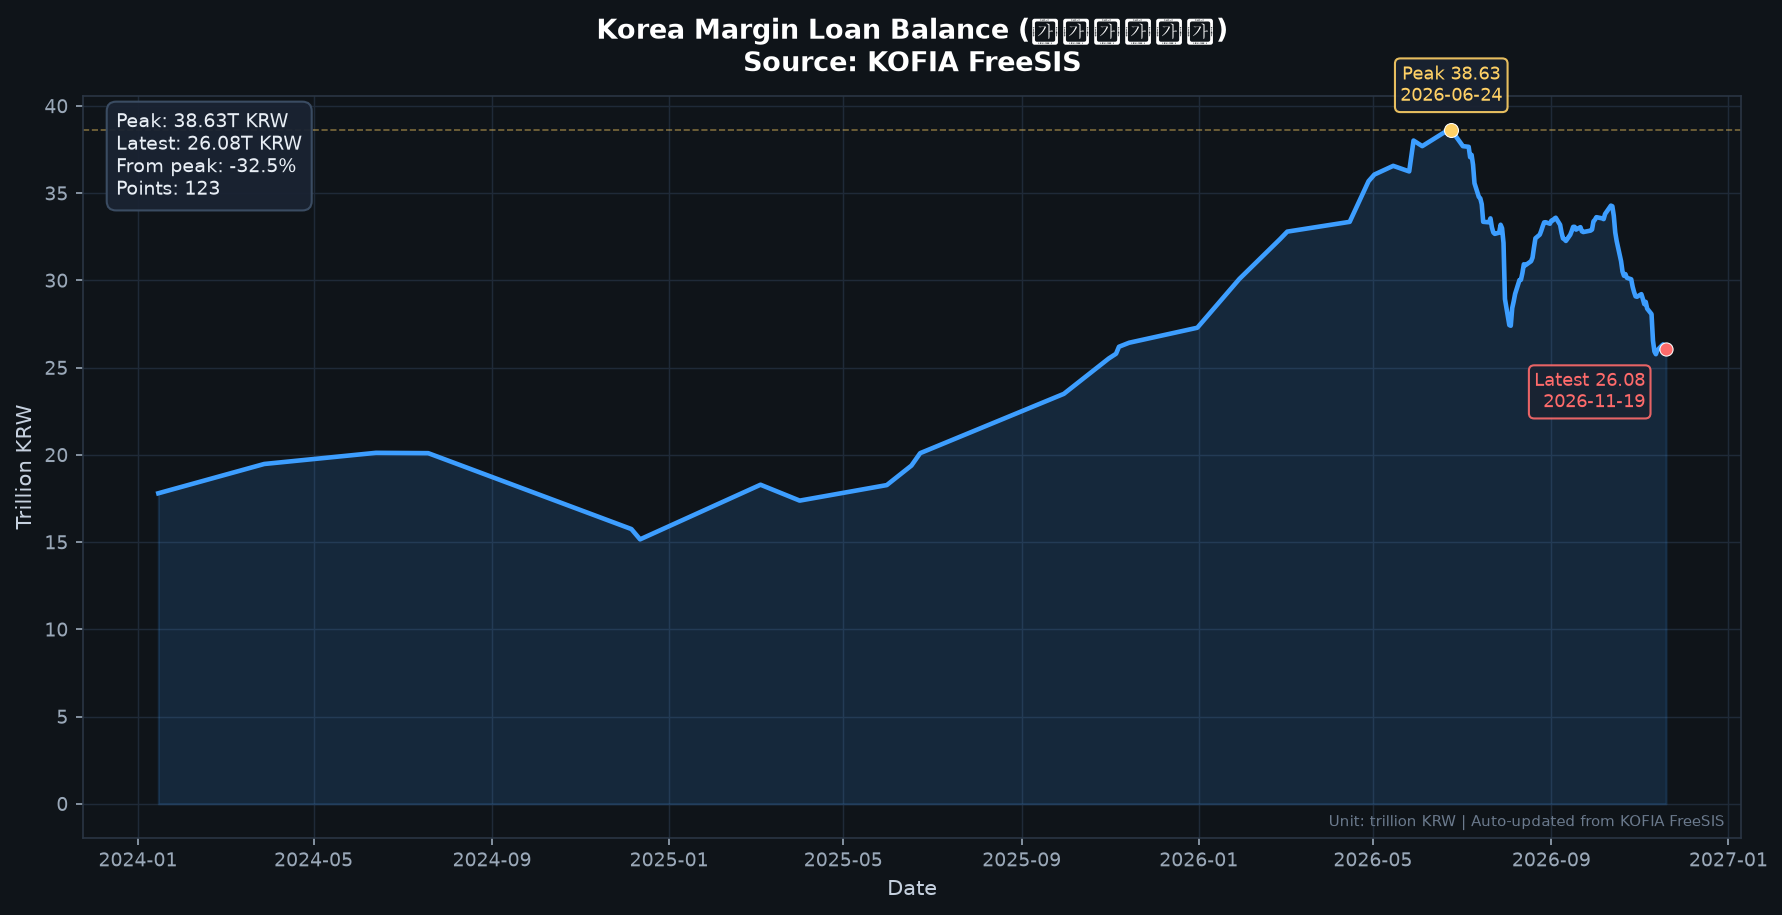
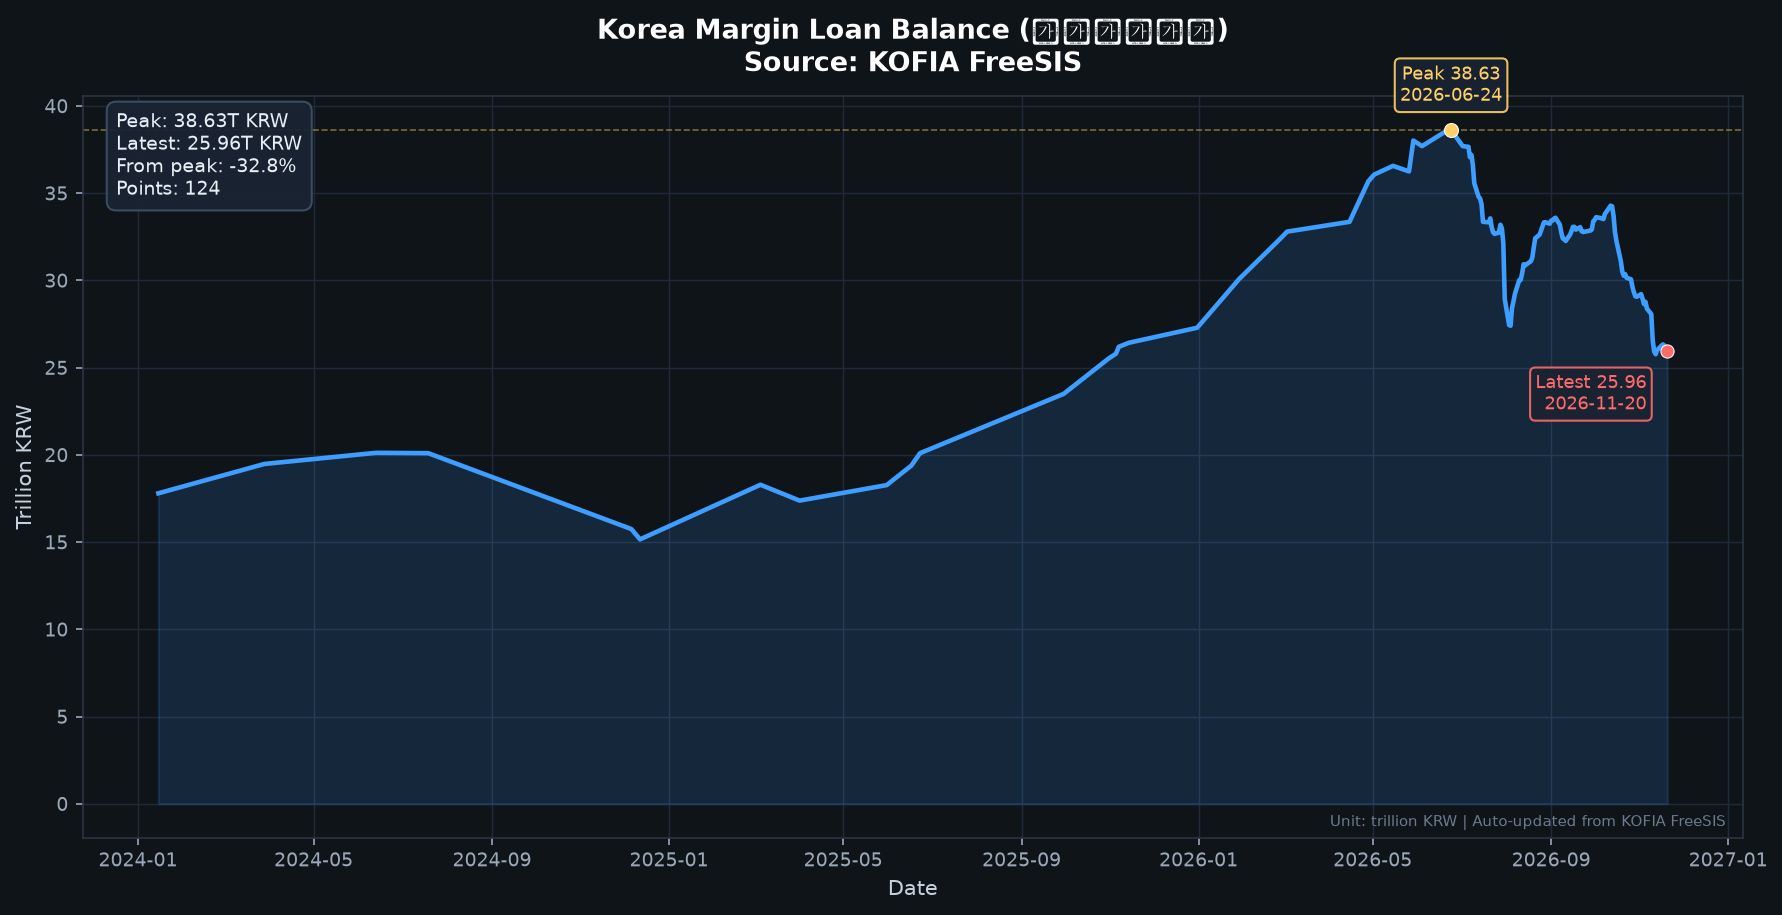
data: margin loan 25.957908T KRW as of 2026-11-20

diff --git a/README.md b/README.md
@@ -13,16 +13,16 @@
 <!-- LATEST:START -->
 | Field | Value |
 |---|---|
-| **As of** | `2026-11-19` |
-| **Margin loan (신용거래융자)** | **26.08 trillion KRW** |
-| **Day change** | `-0.18` trillion KRW |
-| **Securities-backed loan** | 25.04 T |
-| **Credit total** | 51.15 T |
-| **Investor deposits** | 81.57 T |
-| **Fetched at (UTC)** | `2026-11-20T18:24:41Z` |
+| **As of** | `2026-11-20` |
+| **Margin loan (신용거래융자)** | **25.96 trillion KRW** |
+| **Day change** | `-0.13` trillion KRW |
+| **Securities-backed loan** | 24.80 T |
+| **Credit total** | 50.79 T |
+| **Investor deposits** | 82.98 T |
+| **Fetched at (UTC)** | `2026-11-23T08:38:12Z` |
 <!-- LATEST:END -->
 
-![Margin loan chart](charts/margin_balance.png?v=20261119)
+![Margin loan chart](charts/margin_balance.png?v=20261120)
 
 原始数据：[`data/margin_balance.csv`](data/margin_balance.csv) · 最新快照：[`data/latest.json`](data/latest.json)
 
@@ -55,7 +55,7 @@ GitHub Actions 工作流：`.github/workflows/update.yml`
 每次成功拉取会：
 
 1. 合并最新约 15 个交易日数据进 CSV  
-2. 重绘 `charts/margin_balance.png?v=20261119`  
+2. 重绘 `charts/margin_balance.png?v=20261120`  
 3. 更新 README 最新快照表  
 4. 自动 commit / push（仅在有变化时）
 
